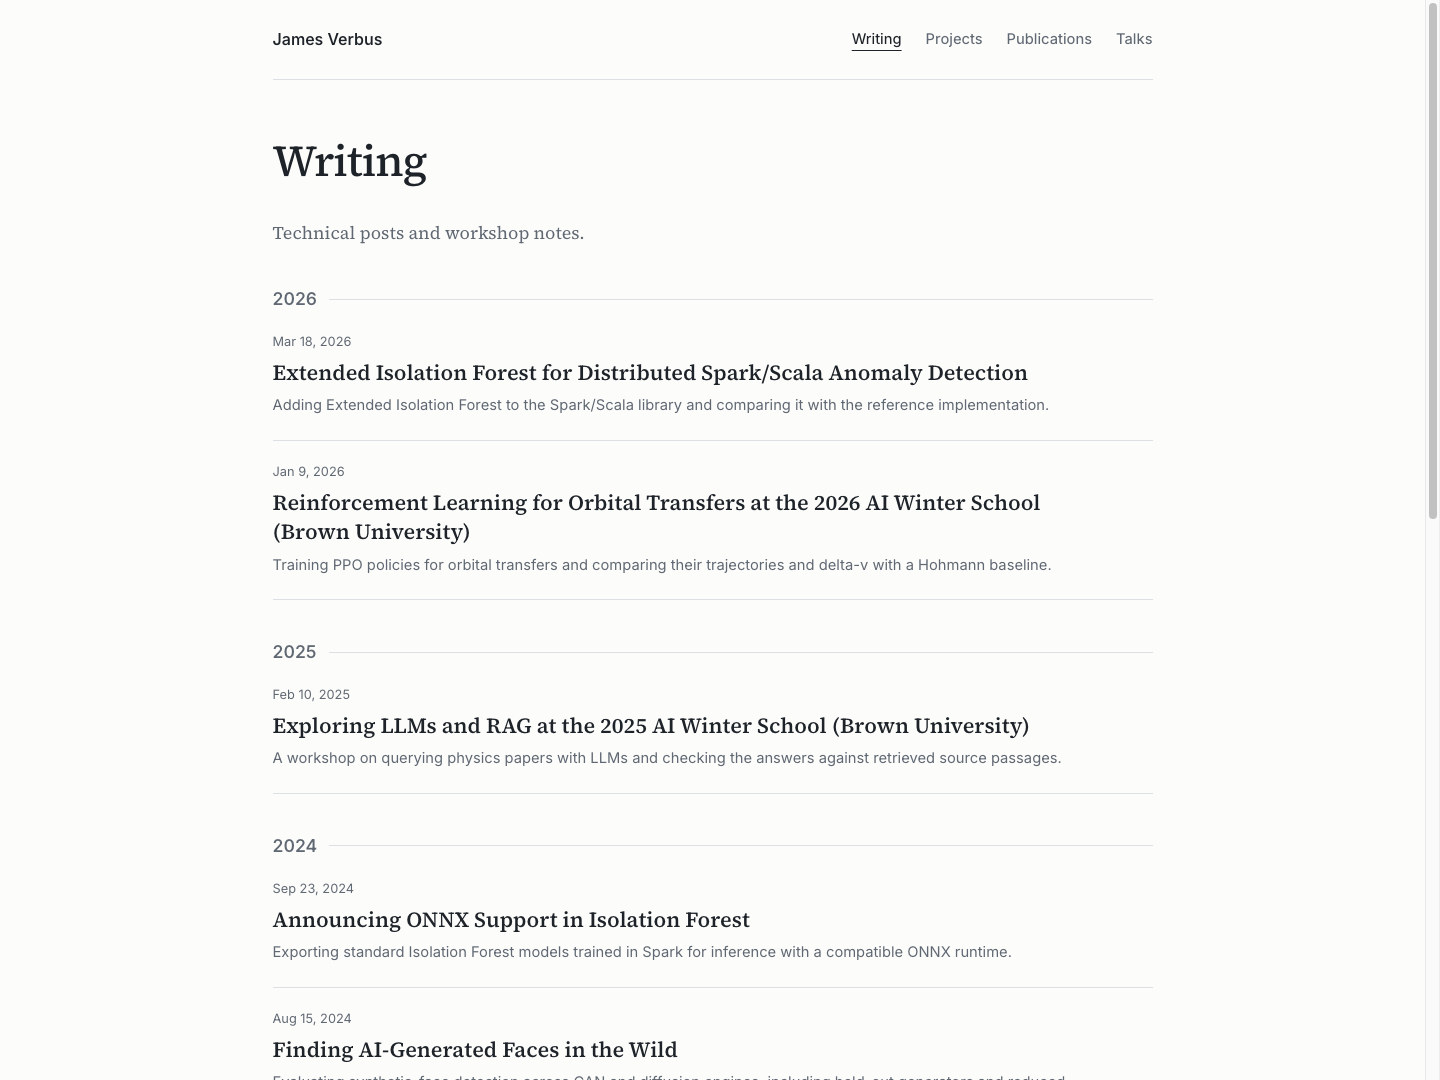
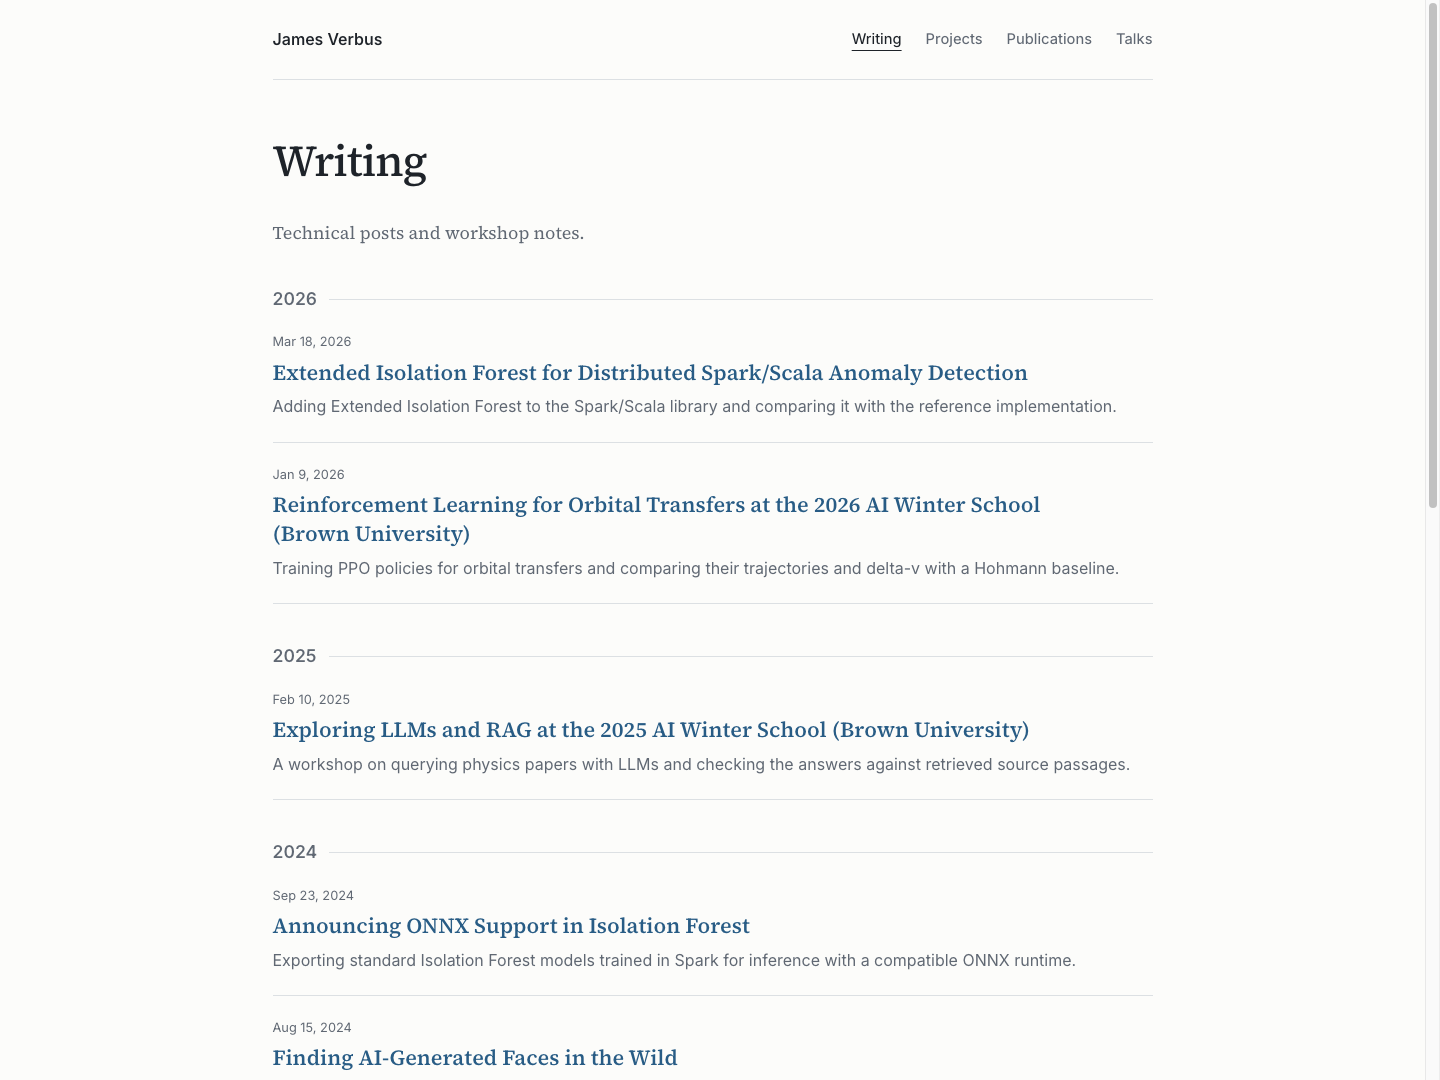
Refine selected work provenance and reading hierarchy

diff --git a/assets/css/modern.css b/assets/css/modern.css
@@ -2675,19 +2675,49 @@ body.academic {
 
 .academic .work-copy h3 a,
 .academic .post-list-title a {
-  color: var(--heading);
+  color: var(--accent);
 }
 
 .academic .work-copy h3 a:hover,
 .academic .post-list-title a:hover {
-  color: var(--accent);
+  color: var(--accent-hover);
 }
 
 .academic .work-copy > p {
   margin: 0;
   color: var(--text-muted);
-  font-size: 0.92rem;
+  font-size: 1rem;
   line-height: 1.6;
+}
+
+.academic .work-copy > .work-context {
+  margin-top: 0.5rem;
+  font-size: 0.85rem;
+  line-height: 1.5;
+}
+
+.academic .work-copy .work-links {
+  display: flex;
+  flex-wrap: wrap;
+  gap: 0 1rem;
+  list-style: none;
+  margin: 0.3rem 0 0;
+  padding: 0;
+  font-size: 0.85rem;
+}
+
+.academic .work-links li {
+  margin: 0;
+}
+
+.academic .work-links a {
+  display: inline-block;
+  padding: 0.2rem 0;
+}
+
+.academic .work-archive {
+  margin: 1rem 0 0;
+  font-size: 1rem;
 }
 
 .academic .post-list {
@@ -2731,6 +2761,19 @@ body.academic {
 
 .academic .post-list-description {
   line-height: 1.65;
+  font-size: 1rem;
+}
+
+/* Preserve Castle's own entry without changing its source or rendered markup. */
+.academic .post-list-title a[href$="/2016/10/07/insight-castle-compromised-account-detection/"] {
+  color: var(--heading);
+}
+
+.academic .post-list-title a[href$="/2016/10/07/insight-castle-compromised-account-detection/"]:hover {
+  color: var(--accent);
+}
+
+.academic .post-list-item:has(.post-list-title a[href$="/2016/10/07/insight-castle-compromised-account-detection/"]) .post-list-description {
   font-size: 0.92rem;
 }
 
@@ -2889,6 +2932,7 @@ body.academic {
 
   .academic .profile-photo {
     display: flex;
+    flex-wrap: wrap;
     align-items: end;
     gap: 1rem;
   }
@@ -2901,7 +2945,7 @@ body.academic {
   .academic .profile-photo figcaption {
     margin: 0;
     max-width: 18ch;
-    font-size: 0.72rem;
+    font-size: 0.8rem;
   }
 
   .academic .selected-work {

diff --git a/_includes/site/head.html b/_includes/site/head.html
@@ -178,6 +178,6 @@
   <link rel="apple-touch-icon" sizes="180x180" href="{{ '/assets/images/apple-touch-icon.png' | relative_url }}">
   <link rel="preload" href="{{ '/assets/fonts/inter-latin-wght-normal.woff2' | relative_url }}" as="font" type="font/woff2" crossorigin>
   <link rel="preload" href="{{ '/assets/fonts/source-serif-4-latin-wght-normal.woff2' | relative_url }}" as="font" type="font/woff2" crossorigin>
-  <link href="{{ '/assets/css/modern.css' | relative_url | escape }}?v={% if preserve_castle %}loop54{% else %}loop55{% endif %}" rel="stylesheet" media="all">
+  <link href="{{ '/assets/css/modern.css' | relative_url | escape }}?v={% if preserve_castle %}loop54{% else %}loop56{% endif %}" rel="stylesheet" media="all">
   <link rel="alternate" type="application/atom+xml" title="{{ site.title | escape }}" href="{{ '/atom.xml' | absolute_url | escape }}">
 </head>

diff --git a/scripts/design-review/academic-2026-09-07/README.md b/scripts/design-review/academic-2026-09-07/README.md
@@ -11,26 +11,38 @@ uses near-white, charcoal and blue, with a graphite dark mode.
 | --- | --- |
 | Identity | Name as the main heading, with “AI and physics” directly below it. Biography emphasizes AI for detecting bots and abusive automated activity, followed by the open-source library and Brown/LUX background. |
 | Homepage | Replaces the slogan, metric strip, route cards, repeated collection previews and contact button with an introduction and four work entries. Existing home fragment targets remain available. |
-| Selected work | `_data/home.yml` lists the 2026 Extended Isolation Forest article, generated-face detection (AI Research, 2024), activity-sequence detection (AI Engineering, 2021) and LUX calibration (Physics, 2016). All entries have a year. Descriptions reuse existing technical copy. |
+| Selected work | `_data/home.yml` lists the 2026 Extended Isolation Forest article, generated-face detection (AI Research, 2024), activity-sequence detection (AI Engineering, 2021) and LUX calibration (Physics, 2016). All entries have a year, with concise provenance or library links in the main column. |
 | Navigation | Writing, Projects, Publications and Talks are text links. All four remain visible on mobile without JavaScript. `/videos/` remains the Talks URL. |
 | Typography | Existing vendored Source Serif 4 and Inter, with aligned headings, comfortable reading text and subdued metadata. No new fonts or dependencies. |
-| Collections and posts | Open lists replace raised cards. Article headers, links, contact controls and footers use the quieter presentation. Tables, figures, MathML, code and demos retain their substance and functionality. |
+| Collections and posts | Open lists replace raised cards. Article headers, links, contact controls and footers use the quieter presentation. Tables, figures, equations, code and demos retain their substance and functionality. |
 | Castle | Existing source, assets, rendered page/head and its own index/feed entries are preserved. The shared URL exception keeps its original navigation, footer, theme metadata and `loop54` stylesheet URL. |
 
 The new styles are scoped to `.academic`, which is added outside Castle's source.
 The original CSS rules remain intact in the same stylesheet; this intentional additive
-approach preserves Castle's appearance. Other pages use `loop55`. Homepage structured
+approach preserves Castle's appearance. Other pages use `loop56`. Homepage structured
 data uses the new home description. The old configuration tagline remains available for
 Castle's original footer.
 
 The selected software entry points to the 2026 EIF article to show recent development.
-That article links to the original 2019 work; the biography still links directly to the
-library's project page. Its displayed 2026 date belongs to the featured article, not to
-the library's creation.
+That article links to the original 2019 work; the biography and selected entry link directly
+to the library's project page, and the entry also links to its GitHub repository. Its
+displayed 2026 date belongs to the featured article, not to the library's creation.
 
 This design implements the later approved homepage/footer changes. The prior editorial
 review's other optional holds remain unchanged: publication counts, interview copy, and
 the protected face/LUX passages. Post sources and publication/talk data were not edited.
+
+## Finishing review of commit 1619449
+
+| Finding | Implementation |
+| --- | --- |
+| 1. Provenance and face-detection wording | Added “Library project” and “Code” links to the EIF entry. Added “CVPR Workshop on Media Forensics,” “LinkedIn Engineering,” and “Brown University · LUX” below the other descriptions. The venue and engineering source are present in `_data/publications.yml`; Brown/LUX is established in the biography and thesis record. The faces description now reads “Evaluating AI-generated-face detection on GAN and diffusion images, including generators withheld from training.” The underlying article is unchanged. |
+| 2. Recognizable linked titles | Selected-work and collection titles use the existing blue at rest, a darker/lighter accent on hover, and the existing visible focus outline. Castle's own collection entry retains its previous colors through an exact-URL CSS exception. |
+| 3. Readable supporting text | Work and collection descriptions are 1rem (16px at the default root size); context, dates and categories remain smaller. Castle's description retains 0.92rem through a shared CSS exception. The mobile photo caption is 0.8rem. Testing found that it extended beyond the viewport at 320px with 200% root text sizing; the photo row now wraps the caption below the image when needed. |
+| 4. Archive continuation | One ordinary “All writing →” link follows the four selected works and leads to `/posts/`. |
+| 5. Direct biography | The opening now begins “I was a Senior Staff Machine Learning Engineer at LinkedIn, where I built AI systems to detect bots and abusive automated activity.” The library follows in its own sentence; the Brown/LUX paragraph and existing links remain. |
+| Rendering and interaction review | Checked Chrome, Firefox and WebKit, including narrow widths, both themes, keyboard focus, enlarged text and the technical pages. Native Safari automation was unavailable; details below. |
+| Castle and scope | No Castle source, assets, metadata, copy or entry markup changed. No post source, collaborator credit, publication data, technical example or AI-assistance disclosure changed. The name, field label, photograph, four-work selection, fonts and palette are retained. |
 
 ## Preservation and validation
 
@@ -38,6 +50,13 @@ Baseline: actual unchanged working tree at `15f0eb3c880b352b005f48dedbd001197f0d
 built with `_config.yml,_config.ci.yml`, saved outside the repository at
 `/private/tmp/academic-redesign-20260907/`. The snapshot contains 185 tracked source files,
 their hashes, the complete generated site, and Castle's source/asset manifest.
+
+The finishing pass has a second immutable baseline at
+`1619449eee8c3fd9c1c189746684f30ebb94c188`, saved at
+`/private/tmp/academic-refinement-20260907/`: 197 tracked source files and their actual
+hashes, the complete unchanged CI-config build, and Castle's source/asset manifest.
+Only `index.md`, `_data/home.yml`, the shared stylesheet and its cache version change in
+this pass, alongside these excluded review artifacts.
 
 - CI-config build and production build both succeed. The production validator also passes
   with `--require-absolute-site-urls`.
@@ -50,11 +69,21 @@ their hashes, the complete generated site, and Castle's source/asset manifest.
 - The final Castle comparison uses the same browser navigation sequence as the baseline:
   all 184 elements have identical computed styles in desktop/mobile and light/dark modes,
   and all four corresponding viewport screenshots are byte-identical.
+- Castle's Writing entry also has identical computed styles before and after the finishing
+  pass, at rest and on hover, in Chrome, Firefox and WebKit across both sizes and themes.
 - All ten complete rendered article subtrees match the baseline, including their headers,
   body copy, figures, equations, code, collaborator credits and AI-assistance disclosures.
-- Browser review: Chrome 152, nine pages at desktop 1440×1080 and mobile 390×844, in light
-  and dark modes (36 combinations). No overflowing prose, missing images or broken local
-  fragment links; all three demos render with nonempty canvases.
+  All 42 non-homepage HTML bodies are unchanged from the finishing-pass baseline.
+- Browser review: Chrome 152 covers nine pages at desktop 1440×1080 and mobile 390×844,
+  in light and dark modes (36 combinations). Firefox 155 and Playwright WebKit 26.6 each
+  cover the homepage, Writing, Publications, Projects, Talks, EIF, LUX and orbital-transfer
+  articles at the same sizes and themes (32 combinations each). No overflowing prose,
+  missing images or broken local fragments; all three demos render with nonempty canvases.
+- All three engines pass homepage/Writing checks at 320/760/768px with 100% and 200% root
+  text sizing. This tests enlarged text, not browser zoom or a physical phone. Each engine
+  also checks the blue title/hover states and visible keyboard focus on all four work
+  titles, both software links and “All writing.” Chrome/Firefox use Tab; WebKit uses
+  [macOS's Option-Tab link-navigation shortcut](https://support.apple.com/en-euro/guide/safari/cpsh003/mac).
 - Seventeen additional checks cover visible navigation without JavaScript at 320/760/768
   pixels, hidden demo fallbacks, keyboard skip/navigation focus, light/dark text contrast,
   and white print output while the system is in dark mode.
@@ -62,8 +91,11 @@ their hashes, the complete generated site, and Castle's source/asset manifest.
 - CSS braces balance; `git diff --check` passes. Screenshots and this report are under
   `scripts/`, excluded from the generated site.
 
-The browser checks use local headless Chrome because the in-app browser was unavailable.
-They cover Chrome rendering; Safari and Firefox have not been exercised in this review.
+The in-app browser was unavailable. The checks used isolated local Chrome and temporary
+Playwright Firefox/WebKit browsers; no browser tooling was added to the site's dependencies.
+Native Safari 26.6 refused a WebDriver session because “Allow remote automation” is off.
+Its settings were left unchanged. WebKit coverage is not a claim of testing the Safari
+application, physical iOS devices or every browser/OS combination.
 
 ## Screenshots
 
@@ -78,5 +110,8 @@ complete page; all were captured from local builds using the same viewport sizes
 
 [Writing](writing-desktop.png) · [Publications](publications-desktop.png) ·
 [LUX article](lux-desktop.png) · [LUX demo on mobile in dark mode](lux-mobile-dark.png)
+
+[Firefox mobile](home-firefox-mobile.png) · [WebKit mobile, dark mode](home-webkit-mobile-dark.png) ·
+[Firefox at 320px with enlarged text](home-firefox-320-enlarged.png)
 
 ![New desktop homepage](home-after-desktop.png)

diff --git a/index.md b/index.md
@@ -11,7 +11,7 @@ hide_title: true
     <h1 id="profile-name">James Verbus</h1>
     <p class="profile-field">AI and physics</p>
     <div class="profile-bio" id="throughline-heading">
-      <p>At LinkedIn, most recently as a Senior Staff Machine Learning Engineer, I created AI systems to detect bots and abusive automated activity, and developed the open-source <a href="{{ '/open-source/isolation-forest/' | relative_url }}">Spark/Scala isolation-forest library</a>.</p>
+      <p>I was a Senior Staff Machine Learning Engineer at LinkedIn, where I built AI systems to detect bots and abusive automated activity. I also developed the open-source <a href="{{ '/open-source/isolation-forest/' | relative_url }}">Spark/Scala isolation-forest library</a>.</p>
       <p>Before that, I earned my Ph.D. in physics at Brown, working on calibration of the <a href="{{ '/2016/08/18/calibrating-the-lux-dark-matter-experiment/' | relative_url }}">LUX dark matter detector</a>.</p>
     </div>
     <nav class="profile-links" id="contact" aria-label="Contact and profiles">
@@ -40,8 +40,17 @@ hide_title: true
       <div class="work-copy">
         <h3><a href="{{ work.url | relative_url }}">{{ work.title }}</a></h3>
         <p>{{ work.description }}</p>
+        {% if work.context %}<p class="work-context">{{ work.context | escape }}</p>{% endif %}
+        {% if work.links %}
+        <ul class="work-links">
+          {% for link in work.links %}
+          <li><a href="{% if link.url contains '://' %}{{ link.url | escape }}{% else %}{{ link.url | relative_url | escape }}{% endif %}">{{ link.label | escape }}</a></li>
+          {% endfor %}
+        </ul>
+        {% endif %}
       </div>
     </li>
     {% endfor %}
   </ul>
+  <p class="work-archive"><a href="{{ '/posts/' | relative_url }}">All writing <span aria-hidden="true">&rarr;</span></a></p>
 </section>
